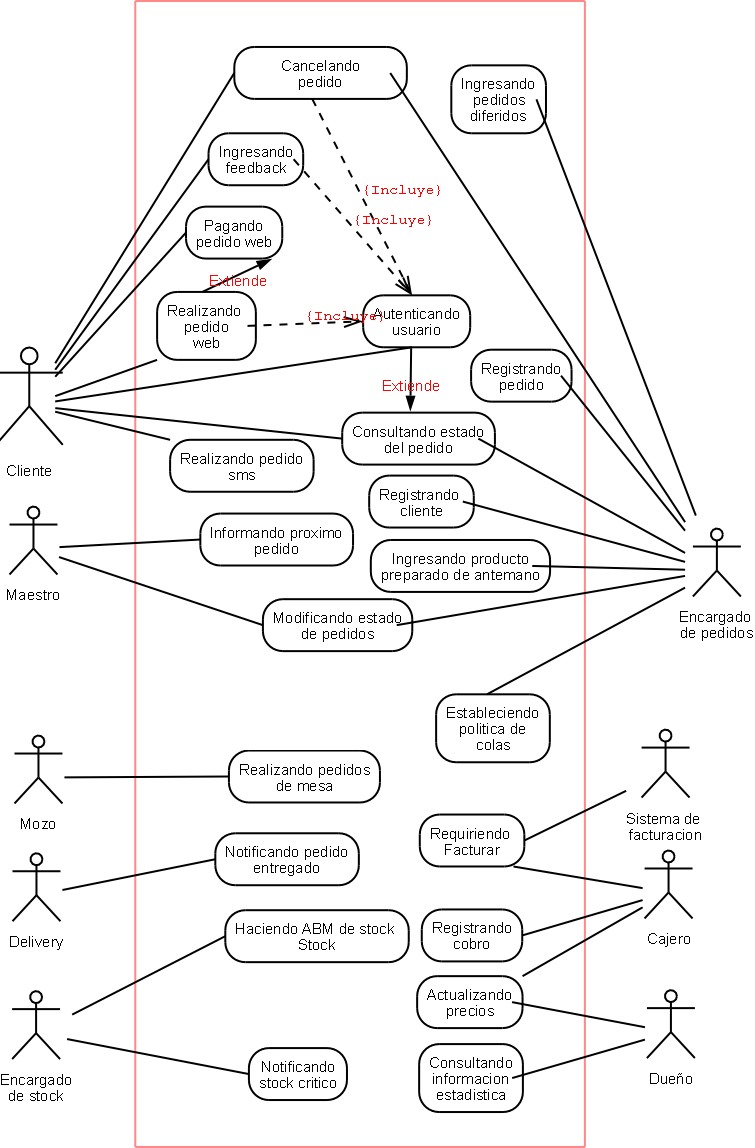
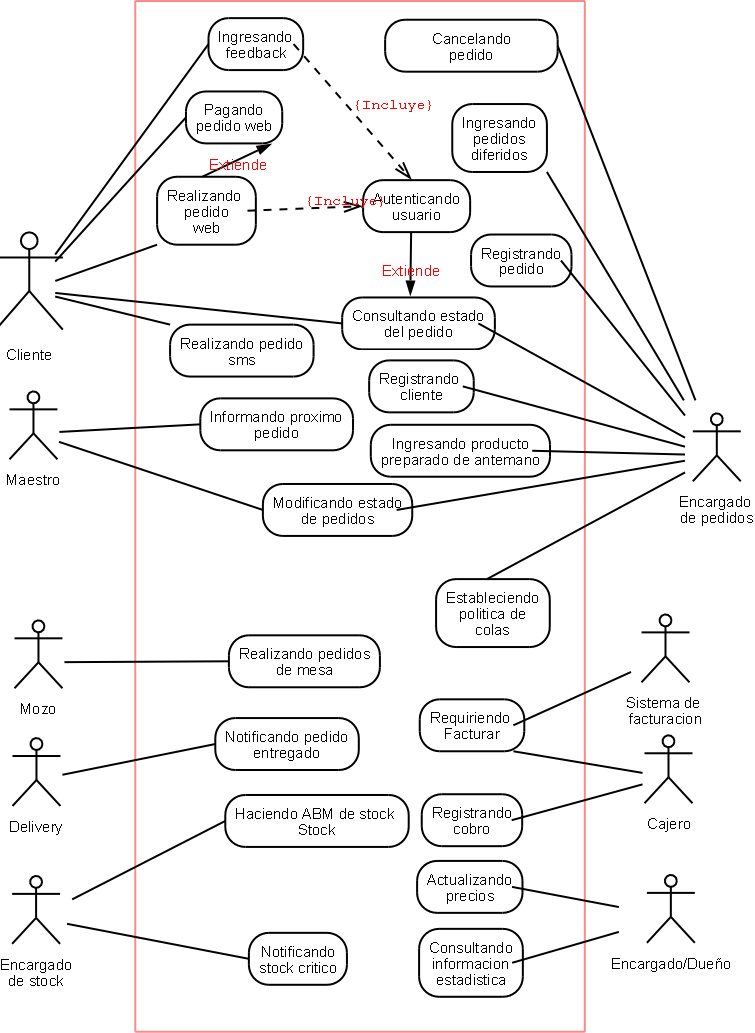
agregado diagrama de objetivos al informe actualizado casos de uso por lo de las cancelaciones

diff --git a/tp0/informe.tex b/tp0/informe.tex
@@ -91,6 +91,7 @@
 \setcounter{chapter}{0}
 \input{alcance}
 \input{estadisticas}
+\input{objetivos}
 \input{contexto}
 \input{casosDeUso}
 \input{glosario}
